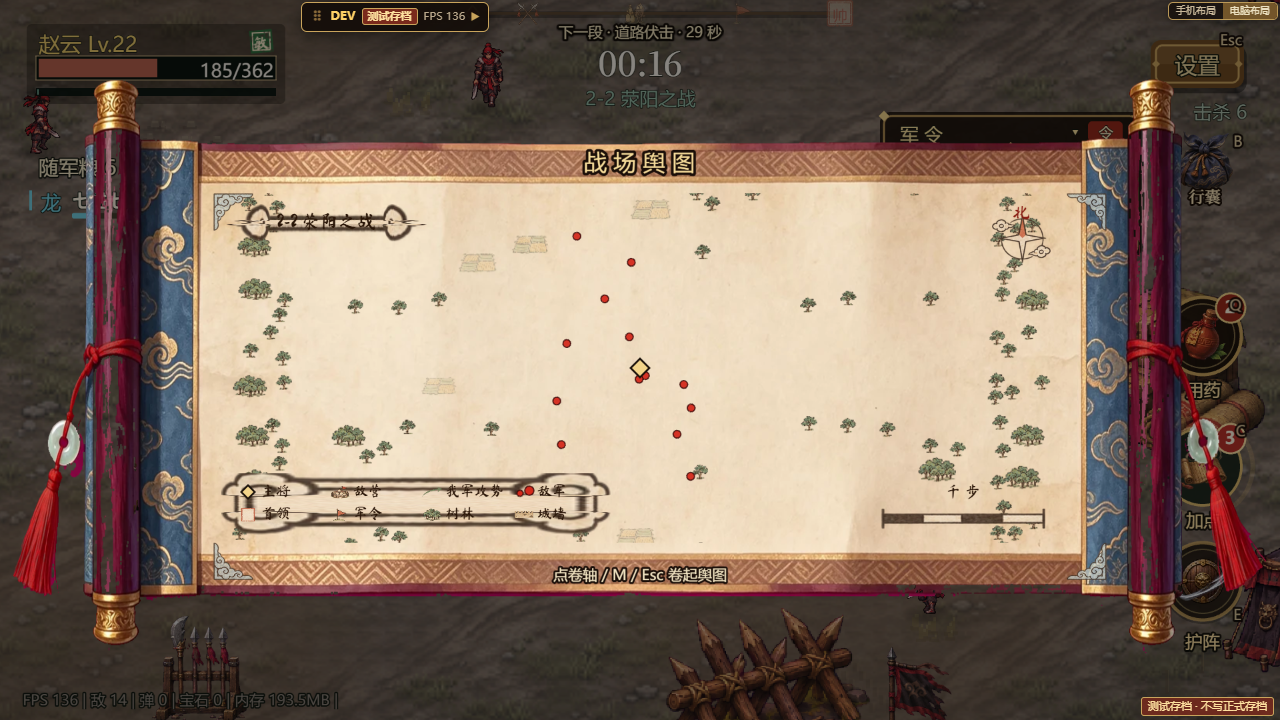
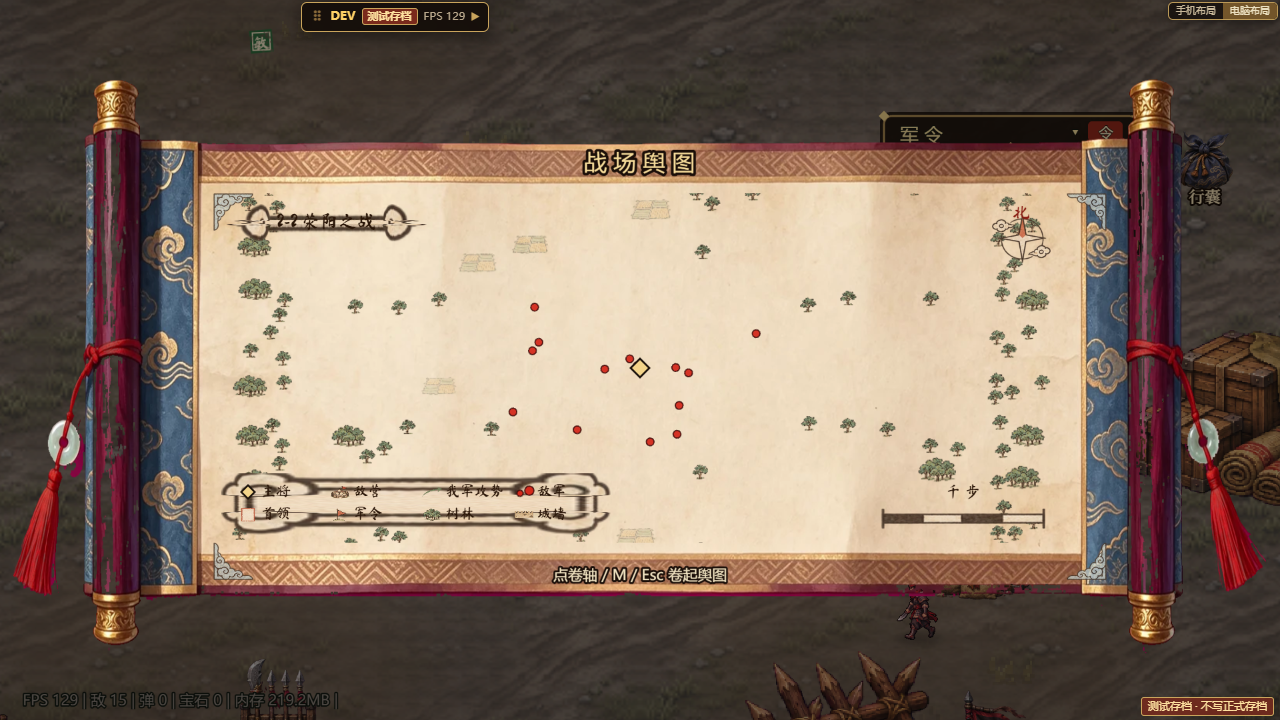
展开舆图时战斗暂停，卷回后恢复（用户「打开小地图会暂停是我要要求的」）
- 新增场景模式 'map'：舆图展开前 host.pause(true) → setMode('map')，战斗时钟、刷兵、敌人、弹道、冷却、机缘倒计时与 Timer / Tween 一起冻结；卷回角上后 host.pause(false) → 恢复
- 舆图自己的飞出 / 展开 / 卷回动画不再用场景补间（暂停时会被一起冻结），改由 BattleMap.stepAnim 每帧用真实帧时间推进；暂停中 8 Hz 重画照常
- 角上收起的卷轴小图平时照常显示，不影响战斗；其余面板 / 弹窗（升级三选一等）打开时仍会收起舆图（tickBattleMap 原逻辑，排除 'map' 本身）
- BattleMap.ts 顶部注释「不暂停」改为暂停说明
- 新 tools/test-map-no-pause.mjs（文件名沿用）：M 展开后动画播完、2.5 秒内 combatNow / elapsed / 敌人 / 主将都不动；M 卷回后时钟与敌人继续走 —— 7/7；截图 map-open-paused.png
- test-battle-map：开图断言改为 mode 'map'，__calm 不再把 'map' 模式拨回；「击退敌军 n/3」改为 n/段数（主线关已是五段）—— 全过

diff --git a/src/ui/BattleMap.ts b/src/ui/BattleMap.ts
@@ -12,7 +12,9 @@ import type { Enemy } from '../entities/Enemy';
  *  - 舆图卷轴（用户「小地图是可以打开的，平时就是卷轴的样子收缩起来，点击才放大」）：平时右上角（设置钮左侧）一卷收起的手卷，不挡战场；
  *    点它或按 M（用户「小地图换成m快捷键」）：卷轴飞到屏幕中央、竖起来，两根画轴往两边拉开（画心宣纸跟着展开），地图在纸上淡入；再点 / M / Esc 卷回去、飞回角上。
  *    手卷图：即梦出图（public/assets/ui/map_scroll_*.webp，原图 ui/originals/map_scroll_jimeng.webp）。
- *  - 地图：画心 640×262，以主将为中心，约 5200 宽，军令目标标名字；不暂停。
+ *  - 地图：画心 640×262，以主将为中心，约 5200 宽，军令目标标名字。
+ *  - 2026-11-19 用户「打开小地图会暂停是我要要求的」：展开大舆图时整场战斗暂停（host.pause(true)，场景进 'map' 模式：战斗时钟、刷兵、敌人、弹道、冷却、机缘倒计时都停），
+ *    卷回角上后恢复（host.pause(false)）。舆图自己的飞出 / 展开 / 卷回补间在暂停之后才建，照常播放；角上收起的小卷轴平时照常显示，不影响战斗。
  *  - 屏外军令箭头：当前首要军令（不含首领——首领箭头 BossPresence 已有）在屏外时，屏幕边缘画朱红小箭头 + 距离。
  * 图层：墨色障碍框、青色河道、敌军红点（每兵一点、精锐大一号，最多 ENEMY_DOTS.max 个）、首领朱印（对象池 2）、随行碧点、主将金菱、军令朱旗菱。
  * 小 / 大地图 8 Hz 重画（一个 Graphics clear 重画）；障碍框每 2 秒重取一次。
@@ -30,6 +32,8 @@ type Box = { left: number; right: number; top: number; bottom: number };
 type Any = Record<string, any>; // eslint-disable-line @typescript-eslint/no-explicit-any
 export interface MapHost {
   scene: Phaser.Scene;
+  /** 大舆图展开（true）/ 卷回角上（false）时暂停 / 恢复战斗。 */
+  pause?(on: boolean): void;
   player(): { x: number; y: number };
   enemies(): readonly Enemy[];
   followers(): ReadonlyArray<{ x: number; y: number; active?: boolean }>;
@@ -192,7 +196,7 @@ export class BattleMap {
   /** 卷轴：角上收起的那卷（icon）、展开的三段（左轴 / 画心 / 右轴）、暗场、标题。 */
   private icon: Phaser.GameObjects.Image | null = null; private iconHint: Phaser.GameObjects.Text | null = null;
   private open3: { left: Phaser.GameObjects.Image; mid: Phaser.GameObjects.Image; right: Phaser.GameObjects.Image; dim: Phaser.GameObjects.Rectangle; title: Phaser.GameObjects.Text; hint: Phaser.GameObjects.Text } | null = null;
-  private state: ScrollState = 'closed'; private t = 0; private tween: Phaser.Tweens.Tween | null = null; private shown = true;
+  private state: ScrollState = 'closed'; private t = 0; private anim: { t: number; dur: number; ease: (k: number) => number; step: (q: number) => void; done: () => void } | null = null; private shown = true;
   /** 测试用：重画次数、障碍框数；卷轴状态、展开程度（0–1）。 */
   readonly stats = { draws: 0, boxes: 0, state: 'closed' as ScrollState, t: 0, detail: { roads: 0, trees: 0, rivers: 0, camps: 0, pushes: 0 } };
   constructor(private readonly h: MapHost, private readonly orders: BattleOrders) {
@@ -257,27 +261,41 @@ export class BattleMap {
     const s = this.h.scene; if (!this.icon) this.makeIcon(); this.makeOpen();
     const icon = this.icon, S = BATTLE_MAP.scroll, k = (icon?.getData('k') as number | undefined) ?? 1, o = this.open3!;
     const rollH = SCROLL_TEX.h * o.mid.scaleY, cy = o.mid.y;
-    this.tween?.stop(); this.tween = null; if (icon) s.tweens.killTweensOf(icon);
+    this.anim = null; if (icon) s.tweens.killTweensOf(icon);
+    // 舆图开着时战斗暂停（场景补间整体冻结），所以舆图自己的动画不用场景补间，改由 stepAnim（真实帧时间）推进
+    const fly = (from: { x: number; y: number; angle: number; scale: number }, to: { x: number; y: number; angle: number; scale: number }, done: () => void): void => {
+      if (!icon) { done(); return; }
+      this.anim = { t: 0, dur: BATTLE_MAP.flyMs, ease: Phaser.Math.Easing.Sine.InOut, done, step: q => icon.setPosition(from.x + (to.x - from.x) * q, from.y + (to.y - from.y) * q).setAngle(from.angle + (to.angle - from.angle) * q).setScale(from.scale + (to.scale - from.scale) * q) };
+    };
     if (!this.bigOpen) {
+      this.h.pause?.(true);
       this.state = 'opening'; this.stats.state = this.state; this.acc = 1e9;
       const fromT = this.t, unroll = (): void => {
         icon?.setVisible(false); this.iconHint?.setVisible(false);
-        this.tween = s.tweens.addCounter({ from: fromT, to: 1, duration: Math.max(1, BATTLE_MAP.unrollMs * (1 - fromT)), ease: 'Cubic.easeOut', onUpdate: tw => this.layout(tw.getValue() ?? 1),
-          onComplete: () => { this.layout(1); this.state = 'open'; this.stats.state = 'open'; this.tween = null; } });
+        this.anim = { t: 0, dur: Math.max(1, BATTLE_MAP.unrollMs * (1 - fromT)), ease: Phaser.Math.Easing.Cubic.Out, step: q => this.layout(fromT + (1 - fromT) * q),
+          done: () => { this.layout(1); this.state = 'open'; this.stats.state = 'open'; } };
       };
       if (icon && fromT === 0) { // 收起的卷轴飞到中央、转成竖的（长度 = 画轴高），再拉开
         this.iconHint?.setVisible(false);
-        s.tweens.add({ targets: icon, x: GAME_WIDTH / 2, y: cy, angle: 90, scale: rollH / icon.width, duration: BATTLE_MAP.flyMs, ease: 'Sine.easeInOut', onComplete: unroll });
+        fly({ x: icon.x, y: icon.y, angle: icon.angle, scale: icon.scale }, { x: GAME_WIDTH / 2, y: cy, angle: 90, scale: rollH / icon.width }, unroll);
       } else unroll();
     } else {
       this.state = 'closing'; this.stats.state = this.state;
-      this.tween = s.tweens.addCounter({ from: this.t, to: 0, duration: Math.max(1, BATTLE_MAP.rollMs * this.t), ease: 'Cubic.easeIn', onUpdate: tw => this.layout(tw.getValue() ?? 0), onComplete: () => {
-        this.layout(0); this.tween = null;
-        if (!icon) { this.state = 'closed'; this.stats.state = 'closed'; return; }
+      const fromT = this.t;
+      this.anim = { t: 0, dur: Math.max(1, BATTLE_MAP.rollMs * fromT), ease: Phaser.Math.Easing.Cubic.In, step: q => this.layout(fromT * (1 - q)), done: () => {
+        this.layout(0);
+        const closed = (): void => { this.state = 'closed'; this.stats.state = 'closed'; this.iconHint?.setVisible(this.shown); this.h.pause?.(false); };
+        if (!icon) { closed(); return; }
         icon.setVisible(this.shown).setPosition(GAME_WIDTH / 2, cy).setAngle(90).setScale(rollH / icon.width);
-        s.tweens.add({ targets: icon, x: S.x, y: S.y, angle: 0, scale: k, duration: BATTLE_MAP.flyMs, ease: 'Sine.easeInOut', onComplete: () => { this.state = 'closed'; this.stats.state = 'closed'; this.iconHint?.setVisible(this.shown); } });
-      } });
+        fly({ x: GAME_WIDTH / 2, y: cy, angle: 90, scale: rollH / icon.width }, { x: S.x, y: S.y, angle: 0, scale: k }, closed);
+      } };
     }
+  }
+  /** 舆图展开 / 卷回动画：每帧由场景用真实帧时间推进（战斗暂停时也走）。 */
+  stepAnim(dt: number): void {
+    const a = this.anim; if (!a) return;
+    a.t += dt * 1000; const q = Math.min(1, a.t / a.dur); a.step(a.ease(q));
+    if (q >= 1 && this.anim === a) { this.anim = null; a.done(); }
   }
   setVisible(v: boolean): void {
     this.shown = v; if (this.state === 'closed') { this.icon?.setVisible(v); this.iconHint?.setVisible(v); }
@@ -325,5 +343,5 @@ export class BattleMap {
     const pl = this.h.player(), dist = Math.round(Math.hypot(cur.pos.x - pl.x, cur.pos.y - pl.y));
     this.arrowText.setText(`${cur.label} · ${dist} 步`).setPosition(Phaser.Math.Clamp(ax - dx * 34, 70, GAME_WIDTH - 70), Phaser.Math.Clamp(ay - dy * 30, top + 10, bottom - 10)).setVisible(true);
   }
-  destroy(): void { this.tween?.stop(); this.big?.destroy(); this.icon?.destroy(); this.iconHint?.destroy(); const o = this.open3; if (o) for (const x of [o.left, o.mid, o.right, o.dim, o.title, o.hint]) x.destroy(); this.arrow.destroy(); this.arrowText.destroy(); }
+  destroy(): void { this.anim = null; this.big?.destroy(); this.icon?.destroy(); this.iconHint?.destroy(); const o = this.open3; if (o) for (const x of [o.left, o.mid, o.right, o.dim, o.title, o.hint]) x.destroy(); this.arrow.destroy(); this.arrowText.destroy(); }
 }

diff --git a/src/scenes/GameScene.ts b/src/scenes/GameScene.ts
@@ -264,7 +264,7 @@ const UPGRADE_ACCENT: Record<string, number> = { weapon: 0xc9973a, martial: 0x2f
 interface ChasingBoss {enemy:Enemy;life:number;stage:number;name:string;battle:YellowBattle|null;huaxiong:HuaxiongBoss|null;xurong:XurongBoss|null;label:Phaser.GameObjects.Text;}
 
 /** story：战中剧情卷轴（第七章落凤坡等），只冻结战斗、不显示其他面板。 */
-type Mode = 'none' | 'levelup' | 'pause' | 'attributes' | 'result' | 'recruit' | 'aid' | 'rest' | 'bossloot' | 'parley' | 'story';
+type Mode = 'none' | 'map' | 'levelup' | 'pause' | 'attributes' | 'result' | 'recruit' | 'aid' | 'rest' | 'bossloot' | 'parley' | 'story';
 
 export class GameScene extends Phaser.Scene {
   protected player!: Player;
@@ -1444,6 +1444,8 @@ export class GameScene extends Phaser.Scene {
       if (ordersPanelSetting() === 'on') this.ordersPanel = new OrdersPanel(this, orders);
       this.battleMap = new BattleMap({scene: this, player: () => this.player, enemies: () => this.enemies, followers: () => this.followers?.members ?? [],
         title: () => this.chapter.name ?? this.chapter.label ?? '',
+        // 2026-11-19 用户「打开小地图会暂停是我要要求的」：舆图展开时战斗暂停，卷回后恢复
+        pause: on => { if (on) { if (this.mode === 'none' && !this.over) this.setMode('map'); } else if (this.mode === 'map') this.setMode('none'); },
         camps: () => { const z = this.allyPush, now = this.combatNow; return (this.objective?.standing ?? []).map(e => ({x: e.x, y: e.y, ratio: e.hp / Math.max(1, e.maxHp), hit: !!z && now - (z.campHitAt.get(e) ?? -1e9) < 900})); },
         pushes: () => (this.allyPush?.squads ?? []).map(q => ({from: q.from, to: q.target ? {x: q.target.x, y: q.target.y} : null, members: q.members.filter(m => !m.dead)})), bosses: () => [...(this.dual ? this.dual.alive.map(x => x.enemy) : this.boss?.active ? [this.boss] : []), ...this.dzLubuBoss().map(x => x.e)]}, orders);
       if (this.ordersPanel) this.objectiveText?.setVisible(false);
@@ -1502,8 +1504,10 @@ export class GameScene extends Phaser.Scene {
   protected tickBattleMap(dt: number): void {
     this.battleOrders?.update(dt); this.ordersPanel?.update(dt);
     if (!this.battleMap) return;
-    if (this.mode !== 'none' && this.battleMap.bigOpen) this.battleMap.toggleBig();
-    if (this.mode === 'none' && !this.over) this.battleMap.update(dt);
+    this.battleMap.stepAnim(dt); // 舆图展开 / 卷回动画用真实帧时间（战斗暂停时也播）
+    // 展开舆图本身就是 'map' 模式（战斗暂停）；其余面板 / 弹窗打开时收起舆图
+    if (this.mode !== 'none' && this.mode !== 'map' && this.battleMap.bigOpen) this.battleMap.toggleBig();
+    if ((this.mode === 'none' || this.mode === 'map') && !this.over) this.battleMap.update(dt);
   }
 
   /** 盾碎：碎片效果，换成同章步兵造型（飞熊军等专属造型保留原样）。 */
